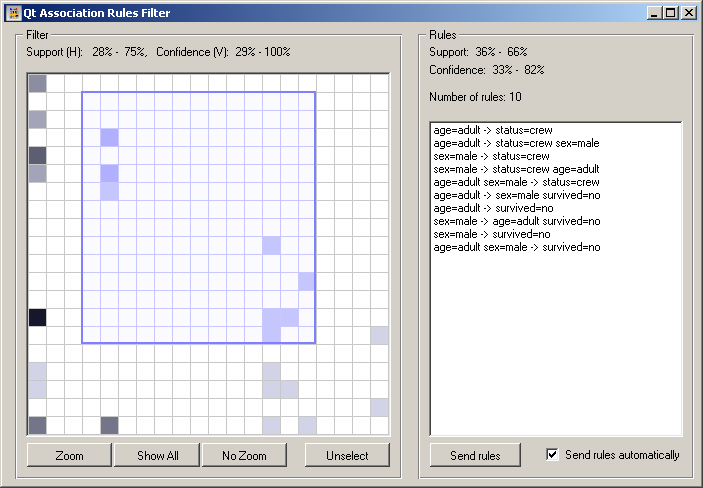
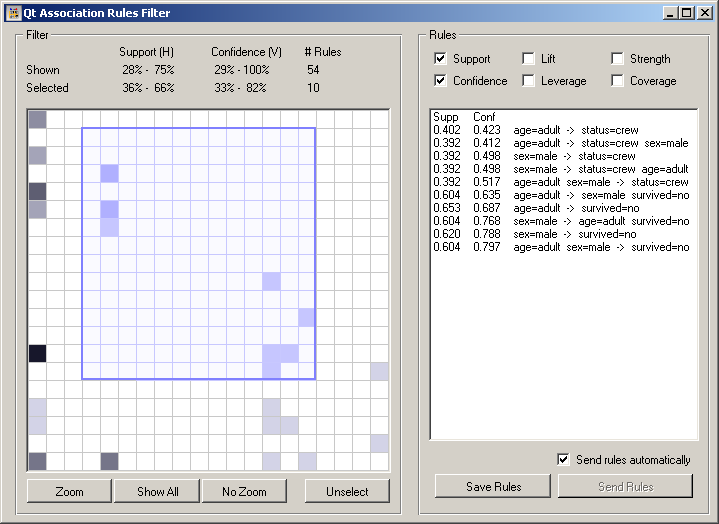
*** empty log message ***

Changed region(s): [[0.0, 0.0, 1.0, 0.9836]]

diff --git a/orange/doc/widgets/catalog/Associate/AssociationRulesFilter.htm b/orange/doc/widgets/catalog/Associate/AssociationRulesFilter.htm
@@ -10,7 +10,7 @@
 <h1>Association Rules Filter</h1>
 
 <img class="screenshot" src="../icons/AssociationRulesFilter.png">
-<p>A widget for manual selection of association rules.</p>
+<p>A widget for printing out the rules and for their manual exploration and selection.</p>
 
 <h2>Channels</h2>
 
@@ -30,23 +30,39 @@
 
 <h2>Description</h2>
 
-<p>This widget allows for manual selection of association rules based on their support and confidence.</p>
+<p>This widget can be used for three purposes:
+<ul><li>graphically showing the confidence and support of the induced rules</li>
+<li>selecting a subset of rules based on their confidence and support</li>
+<li>listing the induced rules and the corresponding measures of quality</li>
+</ul>
+</p>
 
 <img class="screenshot" src="AssociationRulesFilter.png" alt="Association Rules Filter Widget" border=0>
 
 <P>The columns of the grid on the left hand side of the widget represent different supports and the rows represents confidences. The scale is given above the grid: for the case in this snapshot, support goes from 28% to 75% and the confidence ranges from 29% to 100%. Each cell is colored according to the number of rules with that particular support and confidence - the darker the cell, the more rules are inside it.</P>
 
-<P>You can select a part of the grid. In the snapshot we selected the rules with supports between 36% and 66% and confidences from 33% to 82%. The corresponding ten rules are shown in the list below.</P>
+<P>You can select a part of the grid. In the snapshot we selected the rules with supports between 36% and 66% and confidences from 33% to 82%.</P>
 
-<P>If <b>Send rules automatically</b> is checked, the rule list is sent on the output after each selection. If not, you need to press <b>Send Rules</b> to send it.</P>
+<P>When the widget receives certain data, it shows the area containing all the rules. You can <b>Zoom</b> in to enlarge the selected part, push <b>Show All</b> to see the region with the rules again, or <b>No Zoom</b> to see the region with support and confidence from 0 to 1. <b>Unselect</b> removes the selection.</P>
 
-<P>When the widget receives the data, it shows the area which contains some rules. You can <b>Zoom</b> in to enlarge the selected part, push <b>Show All</b> to see the region with the rules again, or <b>No Zoom</b> to see the region with supports and confidences from 0 to 1. <b>Unselect</b> removes the selection.</P>
+<P>If nothing is selected, the widget outputs all rules.</P>
 
-<P>If nothing is selected, the widget outputs all shown rules.</P>
+<P>On the right hand side of the widget there is a list of the selected rules. The checkboxes above can be used to select the measures of rule quality that we are interested in. Let L, R and B be the number of examples that fit the left, the right and both sides of the rule, respectively, and N the total number of examples in the data set. The measures are then defined as follows
+<ul>
+<li>support = B / N</li>
+<li>confidence = B / L</li>
+<li>coverage = L / N</li>
+<li>strength = R / L</li>
+<li>lift = N * B / (L * R)</li>
+<li>leverage = N * B - L * R</li>
+</ul>
+</P>
+
+<P>With the buttons below you can <b>Save Rules</b> into a tab-delimited file or <b>Send Rules</b> to the widget connected to the output. The latter is only enabled if <b>Send rules automatically</b> is unchecked. When it is checked, the rules are put on the widget's output automatically at every selection change.</P>
 
 <h2>Examples</h2>
 
-<P>This widget is typically used with the <a href="AssociationRules.htm">Association Rules</a> and one of the two viewers, <a href="AssociationRulesViewer.htm">Association Rules Viewer</a> and <a href="AssociationRulesPrint.htm">Associtaion Rules Print</a>. The typical schema is shown below.</P>
+<P>This widget is used with the <a href="AssociationRules.htm">Association Rules</a> and maybe with a tree-like <a href="AssociationRulesViewer.htm">Association Rules Viewer</a>. The typical schema is shown below.</P>
 
 <img class="screenshot" src="AssociationRules-Schema.png" alt="Association Rules" border=0>
 

diff --git a/orange/doc/widgets/catalog/Associate/AssociationRules.htm b/orange/doc/widgets/catalog/Associate/AssociationRules.htm
@@ -51,7 +51,7 @@
 
 <h2>Examples</h2>
 
-<P>This widget is typically used with the <a href="AssociationRulesFilter.htm">Association Rules Filter</a> and one of the two viewers, <a href="AssociationRulesViewer.htm">Association Rules Viewer</a> and <a href="AssociationRulesPrint.htm">Associtaion Rules Print</a>. The typical schema is shown below.</P>
+<P>This widget is typically used with the <a href="AssociationRulesFilter.htm">Association Rules Filter</a> and/or <a href="AssociationRulesViewer.htm">Association Rules Viewer</a>. One possible schema is shown below.</P>
 
 <img class="screenshot" src="AssociationRules-Schema.png" alt="Association Rules" border=0>
 
